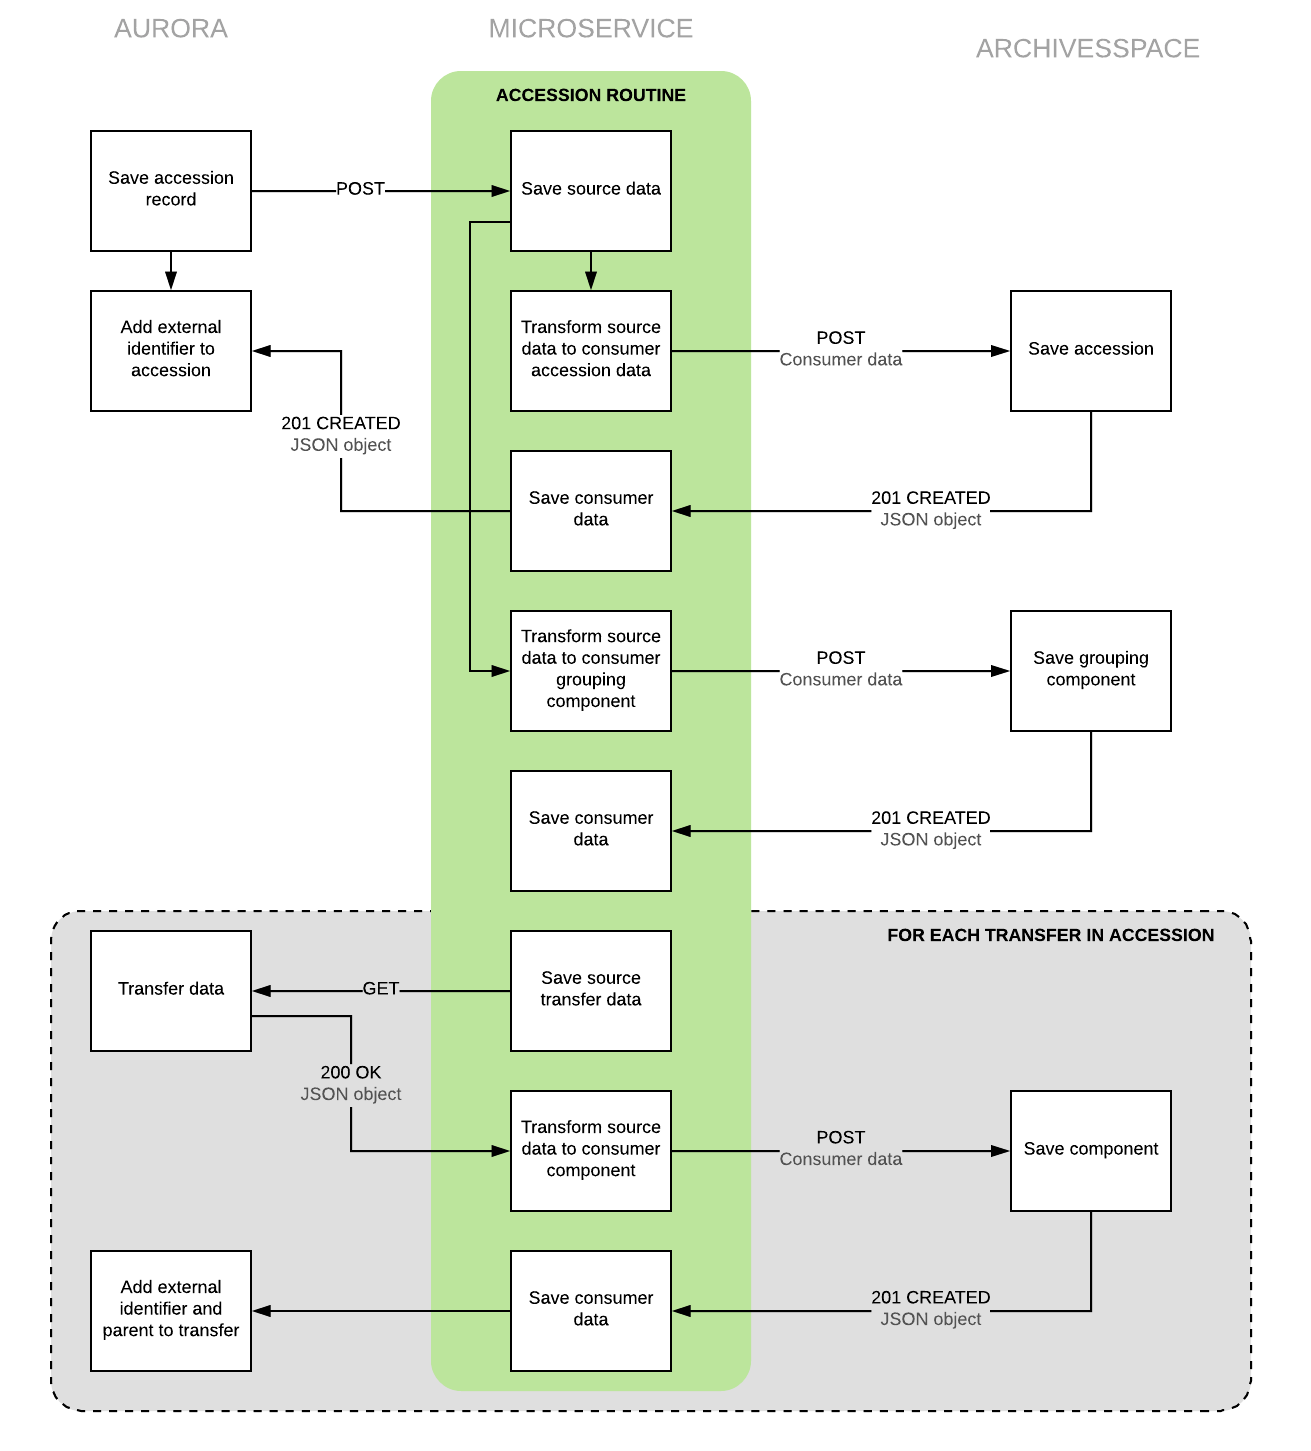
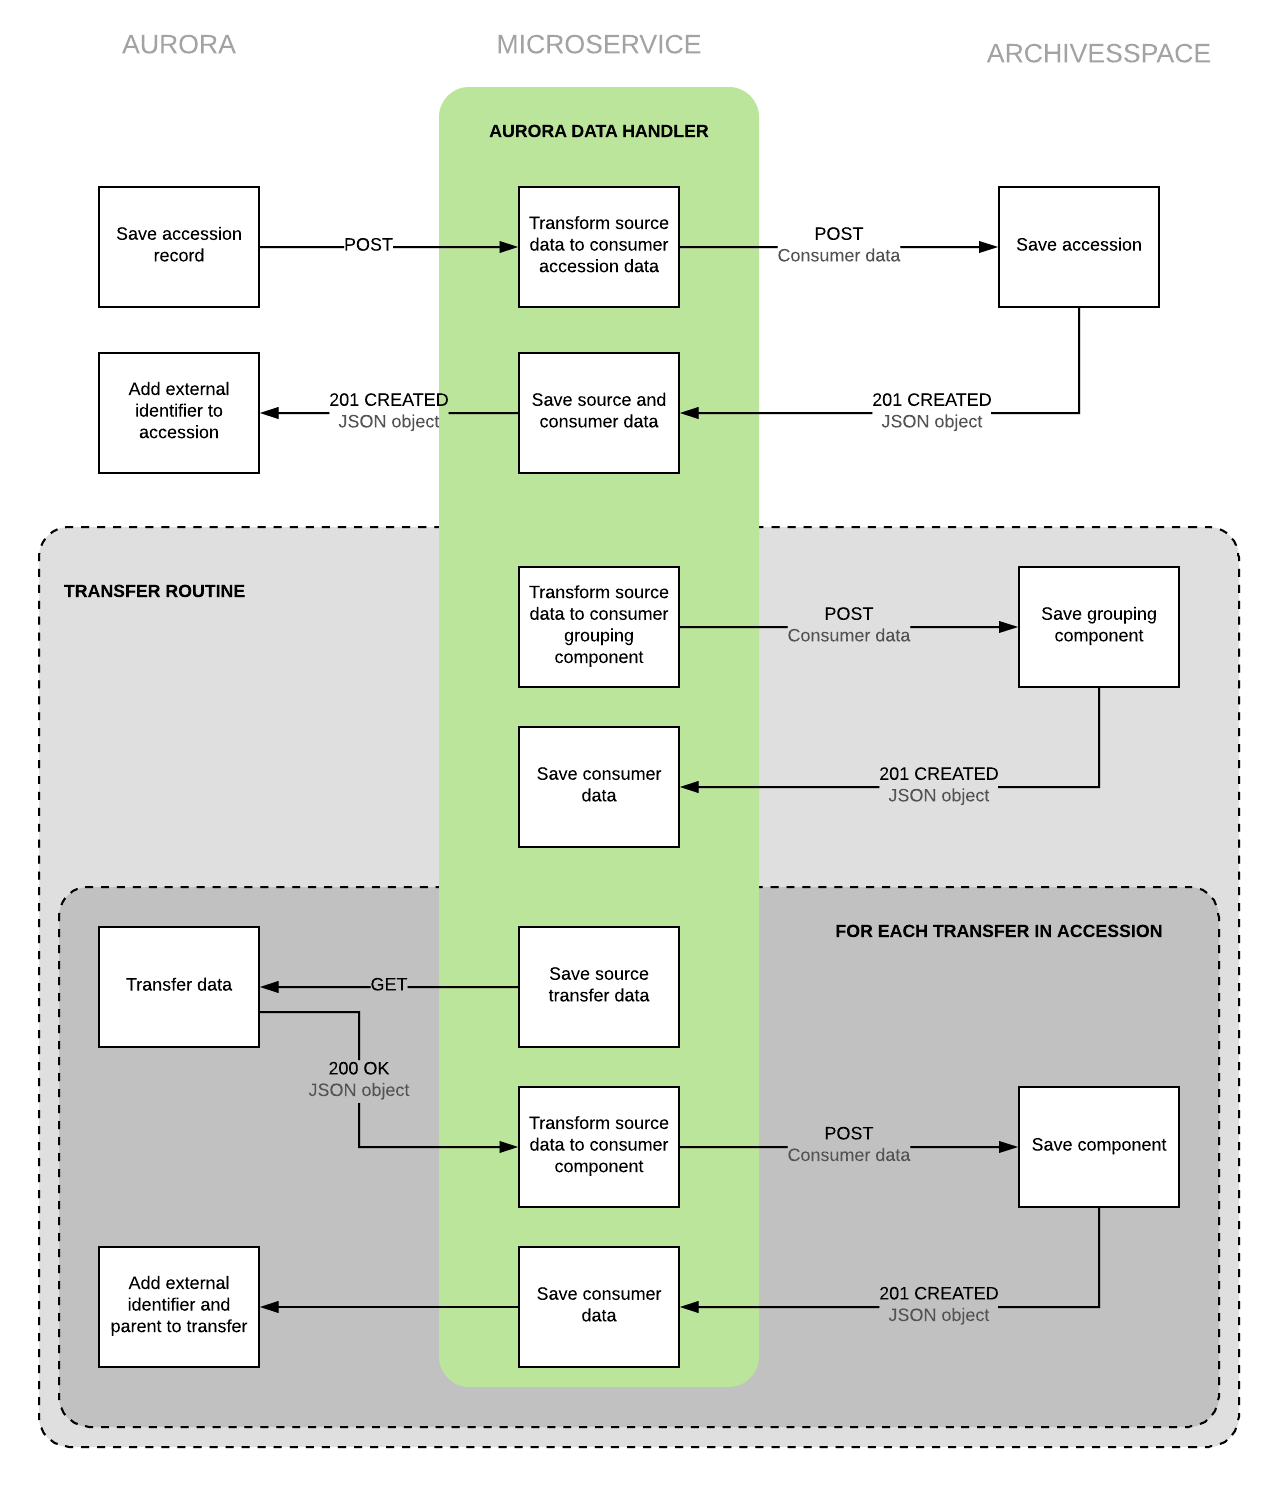
accession routine debug

diff --git a/transformer/routines.py b/transformer/routines.py
@@ -1,0 +1,98 @@
+import logging
+from structlog import wrap_logger
+from uuid import uuid4
+
+from client.clients import ArchivesSpaceClient, AuroraClient
+from transformer.models import SourceObject, ConsumerObject, Identifier
+from transformer.transformers import ArchivesSpaceDataTransformer
+
+logger = logging.getLogger(__name__)
+logger.setLevel(logging.DEBUG)
+logger = wrap_logger(logger)
+
+
+class AccessionRoutine:
+    def __init__(self, source_object):
+        self.source_object = source_object
+        self.data = source_object.data
+        self.log = logger
+
+    def run(self):
+        self.log.bind(request_id=str(uuid4()))
+        if int(self.source_object.process_status) <= 10:
+            if not self.create_grouping_component():
+                self.log.error("Error creating grouping component", object=self.data['url'])
+                return False
+            self.source_object.process_status = 30
+            self.source_object.save()
+
+        if int(self.source_object.process_status) <= 30:
+            # TODO: find a cleaner way to get the ArchivesSpace URI
+            parent_object = ConsumerObject.objects.get(source_object=self.source_object, type='component')
+            self.parent = Identifier.objects.get(consumer_object=parent_object, source='archivesspace').identifier
+            self.collection = self.source_object.data['resource']
+            for transfer in self.data['transfers']:
+                if not self.create_component(transfer):
+                    self.log.error("Error creating component", object=transfer['url'])
+                    return False
+            self.source_object.process_status = 50
+            self.source_object.save()
+
+    def create_grouping_component(self):
+        self.log.bind(request_id=str(uuid4()))
+        transformer = ArchivesSpaceDataTransformer()
+        aspace_client = ArchivesSpaceClient()
+        consumer_data = transformer.transform_grouping_component(self.data)
+        aspace_identifier = aspace_client.save_data(consumer_data, 'component')
+        if (consumer_data and aspace_identifier):
+            consumer_object = ConsumerObject.objects.create(
+                consumer='archivesspace',
+                type='component',
+                source_object=self.source_object,
+                data=consumer_data,
+            )
+            self.log.debug("Created ConsumerObject", object=consumer_object)
+            print(consumer_object)
+            identifier = Identifier.objects.create(
+                source='archivesspace',
+                identifier=aspace_identifier,
+                consumer_object=consumer_object,
+            )
+            self.log.debug("Created Identifier", object=identifier)
+            return True
+        return False
+
+    def create_component(self, data):
+        self.log.bind(request_id=str(uuid4()))
+        transformer = ArchivesSpaceDataTransformer()
+        aspace_client = ArchivesSpaceClient()
+        aurora_client = AuroraClient()
+        source_data = aurora_client.get_data(data['url'])
+        source_data['parent'] = self.parent
+        source_data['collection'] = self.collection
+        consumer_data = transformer.transform_component(source_data)
+        aspace_identifier = aspace_client.save_data(consumer_data, 'component')
+        # TODO: create external identifier object for component and add to data
+        if aurora_client.update_data(data['url'], data=source_data):
+            source_object = SourceObject.objects.create(
+                source='aurora',
+                type='component',
+                data=source_data,
+                process_status=10,
+            )
+            self.log.debug("Created SourceObject", object=source_object)
+            consumer_object = ConsumerObject.objects.create(
+                consumer='archivesspace',
+                type='component',
+                source_object=source_object,
+                data=consumer_data,
+            )
+            self.log.debug("Created ConsumerObject", object=consumer_object)
+            identifier = Identifier.objects.create(
+                source='archivesspace',
+                identifier=aspace_identifier,
+                consumer_object=consumer_object,
+            )
+            self.log.debug("Created Identifier", object=identifier)
+            return True
+        return False

diff --git a/transformer/transformers.py b/transformer/transformers.py
@@ -7,7 +7,7 @@ from client.clients import ArchivesSpaceClient
 
 
 class ArchivesSpaceDataTransformer(object):
-    client = ArchivesSpaceClient
+    client = ArchivesSpaceClient()
 
     ####################################
     # Helper functions
@@ -57,7 +57,7 @@ class ArchivesSpaceDataTransformer(object):
         linked_agents = []
         for agent in agents:
             consumer_data = self.transform_agent(agent)
-            agent_ref = self.client().get_or_create(agent['type'], 'title', agent['name'], consumer_data)
+            agent_ref = self.client.get_or_create(agent['type'], 'title', agent['name'], consumer_data)
             linked_agents.append({"role": "creator", "terms": [], "ref": agent_ref})
         return linked_agents
 
@@ -160,12 +160,12 @@ class ArchivesSpaceDataTransformer(object):
                 "title": data['title'],
                 "external_ids": self.transform_external_ids(data['url']),
                 "extents": self.transform_extents(
-                    {"bytes": data['extent_size'],
-                     "files": data['extent_files']}),
+                    {"bytes": str(data['extent_size']),
+                     "files": str(data['extent_files'])}),
                 "dates": self.transform_dates(data['start_date'], data['end_date']),
                 "rights_statements": self.transform_rights(data['rights_statements']),
                 "linked_agents": self.transform_linked_agents(
-                    data['creators']+[{"name": metadata['source_organization'], "type": "organization"}]),
+                    data['creators']+[{"name": data['organization'], "type": "organization"}]),
                 "resource": {'ref': data['resource']},
                 "repository": {"ref": "/repositories/{}".format(settings.ARCHIVESSPACE['repo_id'])},
                 "notes": [

diff --git a/transformer/models.py b/transformer/models.py
@@ -21,6 +21,15 @@ class SourceObject(DataObject):
         ('aurora', 'Aurora'),
     )
     source = models.CharField(max_length=50, choices=SOURCE_CHOICES)
+    STATUS_CHOICES = (
+        ('10', 'Object saved in ArchivesSpace'),
+        ('30', 'Associated grouping component saved in ArchivesSpace'),
+        ('50', 'Associated transfers saved in ArchivesSpace'),
+    )
+    process_status = models.CharField(max_length=50, choices=STATUS_CHOICES)
+
+    def __str__(self):
+        return '{} {} {}'.format(self.source, self.type, self.id)
 
     def update_data(self):
         client = AuroraClient().client
@@ -37,6 +46,9 @@ class ConsumerObject(DataObject):
     )
     consumer = models.CharField(max_length=50, choices=CONSUMER_CHOICES)
 
+    def __str__(self):
+        return '{} {} {}'.format(self.consumer, self.type, self.id)
+
 
 class Identifier(models.Model):
     created = models.DateTimeField(auto_now_add=True)
@@ -49,3 +61,6 @@ class Identifier(models.Model):
     source = models.CharField(max_length=50, choices=SOURCE_CHOICES)
     identifier = models.CharField(max_length=200)
     consumer_object = models.ForeignKey(ConsumerObject, on_delete=models.CASCADE, related_name='source_identifier')
+
+    def __str__(self):
+        return self.identifier

diff --git a/client/clients.py b/client/clients.py
@@ -25,6 +25,19 @@ class AuroraClient(object):
         if not self.client.authorize():
             self.log.error("Couldn't authenticate user credentials for Aurora")
 
+    def get_data(self, url):
+        self.log = self.log.bind(request_id=str(uuid4()))
+        resp = self.client.get(url)
+        if resp.status_code != 200:
+            self.log.error("Error retrieving data from Aurora: {msg}".format(msg=resp.json()['detail']))
+            return False
+        self.log.debug("Object retrieved from Aurora", object=url)
+        return resp.json()
+
+    def update_data(self, url, data):
+        self.log.debug("Object saved in Aurora", object=url)
+        return True
+
 
 class ArchivesSpaceClient(object):
 
@@ -76,5 +89,6 @@ class ArchivesSpaceClient(object):
             return False
         if len(resp.json()['results']) == 0:
             self.log.debug("No match for object found in ArchivesSpace", object=value)
-            return self.save_data(consumer_data, type)
+            if self.save_data(consumer_data, type):
+                return self.save_data(consumer_data, type)
         return resp.json()['results'][0]['uri']

diff --git a/transformer/cron.py b/transformer/cron.py
@@ -1,0 +1,32 @@
+import logging
+from structlog import wrap_logger
+from uuid import uuid4
+
+from django_cron import CronJobBase, Schedule
+
+from client.clients import ArchivesSpaceClient
+from transformer.models import SourceObject
+from transformer.routines import AccessionRoutine
+
+
+logger = logging.getLogger(__name__)
+logger.setLevel(logging.DEBUG)
+logger = wrap_logger(logger)
+
+
+class ProcessAccessions(CronJobBase):
+    RUN_EVERY_MINS = 0
+    schedule = Schedule(run_every_mins=RUN_EVERY_MINS)
+    code = 'transformer.process_accessions'
+
+    def do(self):
+        self.log = logger.new(transaction_id=str(uuid4()))
+        accessions = SourceObject.objects.filter(type='accession', process_status__lte=30)
+        self.log.debug("Found {} accessions to process".format(len(accessions)))
+        for accession in accessions:
+            self.log.debug("Running accession routine", object=accession)
+            try:
+                routine = AccessionRoutine(accession)
+                routine.run()
+            except Exception as e:
+                print(e)

diff --git a/transformer/migrations/0001_initial.py b/transformer/migrations/0001_initial.py
@@ -1,4 +1,4 @@
-# Generated by Django 2.0 on 2018-05-15 13:28
+# Generated by Django 2.0 on 2018-05-17 14:29
 
 import django.contrib.postgres.fields.jsonb
 from django.db import migrations, models
@@ -46,6 +46,7 @@ class Migration(migrations.Migration):
             fields=[
                 ('dataobject_ptr', models.OneToOneField(auto_created=True, on_delete=django.db.models.deletion.CASCADE, parent_link=True, primary_key=True, serialize=False, to='transformer.DataObject')),
                 ('source', models.CharField(choices=[('aurora', 'Aurora')], max_length=50)),
+                ('process_status', models.CharField(choices=[('10', 'Object saved in ArchivesSpace'), ('30', 'Associated grouping component saved in ArchivesSpace'), ('50', 'Associated transfers saved in ArchivesSpace')], max_length=50)),
             ],
             bases=('transformer.dataobject',),
         ),

diff --git a/transformer/serializers.py b/transformer/serializers.py
@@ -6,14 +6,14 @@ class IdentifierSerializer(serializers.ModelSerializer):
 
     class Meta:
         model = Identifier
-        exclude = ('id',)
+        exclude = ('id', 'consumer_object')
 
 
 class SourceObjectSerializer(serializers.ModelSerializer):
 
     class Meta:
         model = SourceObject
-        fields = ('id', 'type', 'source', 'data', 'created', 'last_modified')
+        fields = ('id', 'type', 'source', 'process_status', 'data', 'created', 'last_modified')
 
 
 class ConsumerObjectSerializer(serializers.ModelSerializer):

diff --git a/transformer/views.py b/transformer/views.py
@@ -29,7 +29,8 @@ class TransformViewSet(viewsets.ViewSet):
         source_object = SourceObject.objects.create(
             source='aurora',
             type='accession',
-            data=request.data
+            data=request.data,
+            process_status=10
         )
         consumer_object = ConsumerObject.objects.create(
             consumer='archivesspace',
